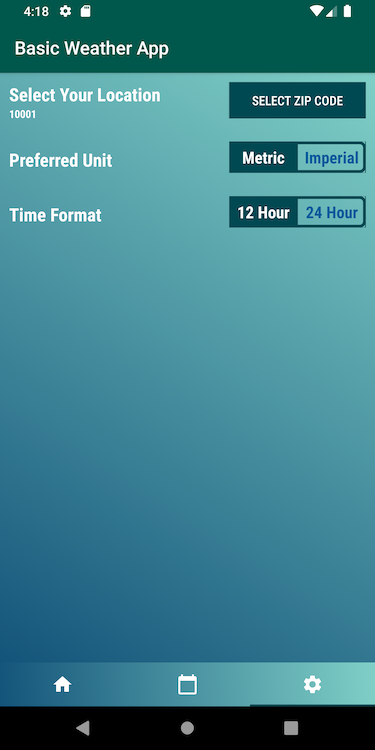
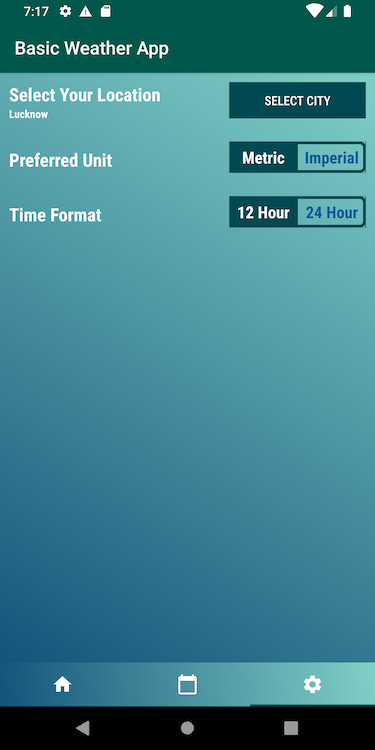
Edited the readme file

diff --git a/Android Weather App/README.md b/Android Weather App/README.md
@@ -4,6 +4,7 @@
 A simple, feature rich weather app which uses the [Open Weather API](https://openweathermap.org) to fetch weather data. The features include:
 
 - Saving user's preferred city to display the current weather data on the homepage
+- Using Google's Places API to allow the user to select a city of their choice
 - A five day forecast with a 6-hourly weather data for each day
 - Ability to switch between desired units (metric/imperial) and time-format (12 hour/24 hour)
 
@@ -11,4 +12,5 @@ A simple, feature rich weather app which uses the [Open Weather API](https://ope
 ![image2](https://github.com/saksham91/Mobile-Weather-App/blob/master/Android%20Weather%20App/image2.png)
 ![image3](https://github.com/saksham91/Mobile-Weather-App/blob/master/Android%20Weather%20App/image3.png)
 ![image4](https://github.com/saksham91/Mobile-Weather-App/blob/master/Android%20Weather%20App/image4.png)
+![image5](https://github.com/saksham91/Mobile-Weather-App/blob/master/Android%20Weather%20App/image5.png)
 
